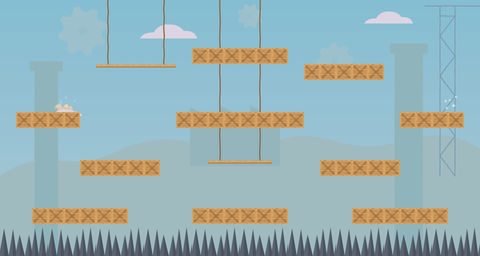
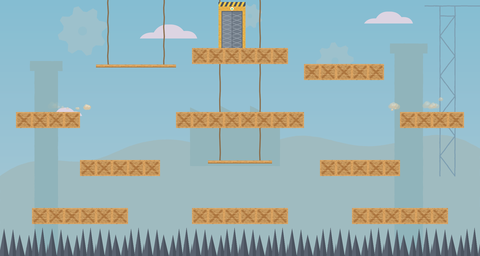
Rei da Obra e Fuga ajustados com bots: proteção do novo rei, cair na Fuga só atrasa, bots pulam da beirada para subir; miniaturas novas
Claude-Session: https://claude.ai/code/session_018QUPBRYpVzUA4ooVrpYmDH

diff --git a/docs/ESTADO.md b/docs/ESTADO.md
@@ -6,9 +6,12 @@ Backup: GitHub privado `joao992001/bota-abaixo` (ramo `main`).
 ## O que é hoje
 Party game de briga e plataforma, **2–4 jogadores locais** (teclado e controles), com bots. Modo principal **Demolição**
 (o modo antigo de peças/construção ainda existe como "Clássico", mas o GDD.md ainda descreve só ele — desatualizado).
-- **Submodos:** Último em Pé, Vidas, Placar, Batata-Dinamite. Fluxo: Modo → Submodo → Arena → Ajustes → Entrada.
-- **11 arenas** (`levels/*.lvl`): Canteiro, Esteiras, Guindastes, Maré de Lama, Bola, Paiol, Torre (câmera sobe),
-  Ponte (câmera avança), Gangorras, Prensa, Fornalha — e `oficina.lvl` (ambiente de testes).
+- **4 modos (sem submodos; o Clássico de peças foi removido):** fluxo Modo → Arena do modo → Ajustes do modo → Entrada.
+  - **Derruba** (vidas 1–5, dano %): Canteiro, Guindastes, Gangorras, Esteiras, Prensa, Fornalha.
+  - **Batata-Dinamite** (pavio curto/normal/longo; encostar ou marretar passa): Paiol, Galpão de Cargas, Andaime do Elevador (fechados, sem poço).
+  - **Rei da Obra** (capacete de ouro no `K`; 20/30/45 s; golpe derruba; 1,2 s de proteção): Bola de Demolição, Laje do Prédio, Pirâmide de Caixotes.
+  - **Fuga** (tela/lama persegue; cair só atrasa; pego pela tela sai; elevador `E` vence): Torre, Ponte, Maré de Lama.
+  - Regras e listas em `data/modos.json` (`demolicao.modos`); bots sabem cada modo (`modes/bots.gd`, `_climb`).
 - **12 itens:** TNT, furadeira, cola, teletransporte, raio laser, bomba de vórtice, soprador, raio congelante (botão ITEM) ·
   martelão, ímã, botas de mola, bota-foguete (automáticos). Ferramentas aparecem na mão ao usar.
 - **9 eventos** configuráveis; Amassômetro (dano % aumenta o empurrão); aderência limitada na parede/borda com medidor.
@@ -24,9 +27,9 @@ Party game de briga e plataforma, **2–4 jogadores locais** (teclado e controle
 - **Arte:** estilo papel e giz (gerada por código em `art/src`, cópias em `game/assets`). **Som:** `tools/sfxforge.py`.
 
 ## Como rodar e testar
-- Jogar: `godot --path game` · bateria de testes: `godot --headless --path game --fixed-fps 60 -- --autotest` (213 verificações, 0 falhas).
+- Jogar: `godot --path game` · bateria de testes: `godot --headless --path game --fixed-fps 60 -- --autotest` (199 verificações, 0 falhas).
 - Só uma parte: `-- --autotest --so=itens_novos,parede,controle_real` · ritmo com bots: `-- --stats=4`.
-- Capturas: `-- --menus=DIR`, `--itens=DIR`, `--parede=DIR`, `--intro=DIR`, `--oficina=DIR` (com xvfb-run e `--rendering-driver opengl3`).
+- Capturas: `-- --espiar=DIR,arena,modo,segundos` (bots, foto a cada 10 s), `-- --menus=DIR`, `--itens=DIR`, `--parede=DIR`, `--intro=DIR`, `--oficina=DIR` (com xvfb-run e `--rendering-driver opengl3`).
 
 ## Como gerar o executável (IMPORTANTE)
 - Exportar com a **mesma versão da Godot do editor do usuário: 4.7.1**. Exportado na 4.3, o controle DualShock/DualSense
